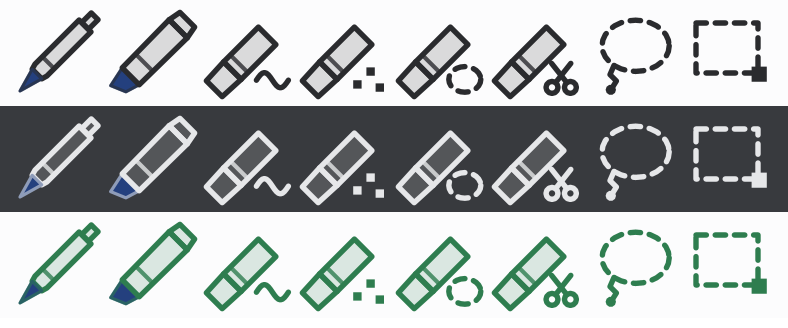
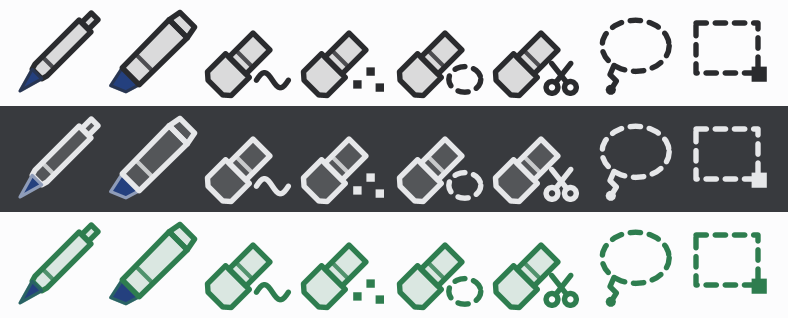
Poprawia ikonę gumki: krótszy, szerszy klocek zamiast kształtu zakreślacza (2c-A15)
Dlaczego: gumka miała długość i sylwetkę zakreślacza i myliła się z nim na pasku; test sylwetki padał przed zmianą,
podgląd w docs/podglad/ikony-narzedzi.png.

diff --git a/app/src/test/java/com/mdev/mnotes/ui/PenGlyphsTest.kt b/app/src/test/java/com/mdev/mnotes/ui/PenGlyphsTest.kt
@@ -89,7 +89,25 @@ class PenGlyphsTest {
         assertTrue(ToolGlyphParts.lasso(false).any { it.role == GlyphRole.DASH })
     }
 
-    /** 2b-A1: każda pozycja paska narzędzi ma ikonę (glif albo ikona Material). */
+    /**
+     * 2c-A15: gumka ma inną sylwetkę niż zakreślacz — szerszy klocek gumy i krótsza całość — bo przy tym samym kształcie
+     * (prostokąt z opaską) na pasku myliły się. Współrzędne wzdłuż przekątnej glifu (u) i w poprzek (v).
+     */
+    @Test fun eraserSilhouetteDiffersFromHighlighter() {
+        fun uv(parts: List<GlyphPart>): Pair<Float, Float> {
+            var maxU = 0f; var maxV = 0f
+            for (p in parts) if (p.role == GlyphRole.BODY || p.role == GlyphRole.INK) for (i in 0 until p.pts.size / 2) {
+                val dx = p.pts[2 * i] - 2.5f; val dy = p.pts[2 * i + 1] - 21.5f
+                maxU = maxOf(maxU, (dx - dy) / 1.41421356f); maxV = maxOf(maxV, kotlin.math.abs(dx + dy) / 1.41421356f)
+            }
+            return maxU to maxV
+        }
+        val (eu, ev) = uv(ToolGlyphParts.eraserBase)
+        val (hu, hv) = uv(PenGlyphs.parts(PenKind.HIGHLIGHTER))
+        assertTrue("gumka nie szersza: $ev vs $hv", ev >= hv + 0.8f)
+        assertTrue("gumka nie krótsza: $eu vs $hu", eu <= hu - 5f)
+    }
+
     /** Ciało funkcji `ToolBar` z `EditorScreen.kt` (do następnej funkcji najwyższego poziomu). */
     private fun toolBarSource(): String {
         val src = java.io.File("src/main/java/com/mdev/mnotes/ui/EditorScreen.kt").readText()

diff --git a/app/src/main/java/com/mdev/mnotes/ui/PenGlyphs.kt b/app/src/main/java/com/mdev/mnotes/ui/PenGlyphs.kt
@@ -158,11 +158,14 @@ object ToolGlyphParts {
     private fun ring(role: GlyphRole, cx: Float, cy: Float, rx: Float, ry: Float = rx, n: Int = 18) =
         GlyphPart(role, FloatArray(2 * n) { k -> val a = 2 * Math.PI * (k / 2) / n; if (k % 2 == 0) cx + rx * kotlin.math.cos(a).toFloat() else cy + ry * kotlin.math.sin(a).toFloat() })
 
-    /** Wspólna gumka: gumowa końcówka i oprawka, rozdzielone opaską; długość jak zakreślacz, żeby stała w rzędzie z piórami. */
+    /**
+     * Wspólna gumka: szeroki klocek gumy z fazowanym czubkiem i węższa oprawka. 2c-A15: dawniej prostokąt z opaską
+     * długości zakreślacza — na pasku oba wyglądały tak samo; teraz krótsza i szersza sylwetka (zakreślacz: długi, ścięty).
+     */
     val eraserBase: List<GlyphPart> = listOf(
-        uv(GlyphRole.BODY, 0.8f, -2.8f, 7.2f, -3.1f, 7.2f, 3.1f, 0.8f, 2.8f),
-        uv(GlyphRole.BODY, 7.2f, -3.1f, 19.5f, -3.1f, 19.5f, 3.1f, 7.2f, 3.1f),
-        uv(GlyphRole.DETAIL, 9.6f, -3.1f, 9.6f, 3.1f, closed = false),
+        uv(GlyphRole.BODY, 1.2f, -2.6f, 2.6f, -4.2f, 9.0f, -4.2f, 9.0f, 4.2f, 2.6f, 4.2f, 1.2f, 2.6f),
+        uv(GlyphRole.BODY, 9.0f, -3.0f, 17.5f, -3.0f, 17.5f, 3.0f, 9.0f, 3.0f),
+        uv(GlyphRole.DETAIL, 11.4f, -3.0f, 11.4f, 3.0f, closed = false),
     )
 
     /** Fala (cała kreska) w prawym dolnym rogu. */
